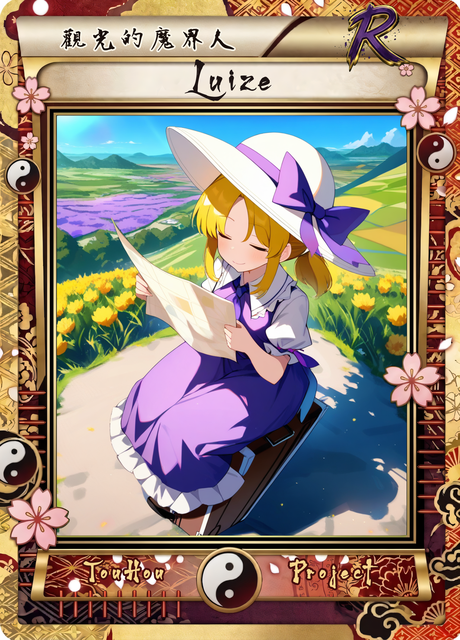
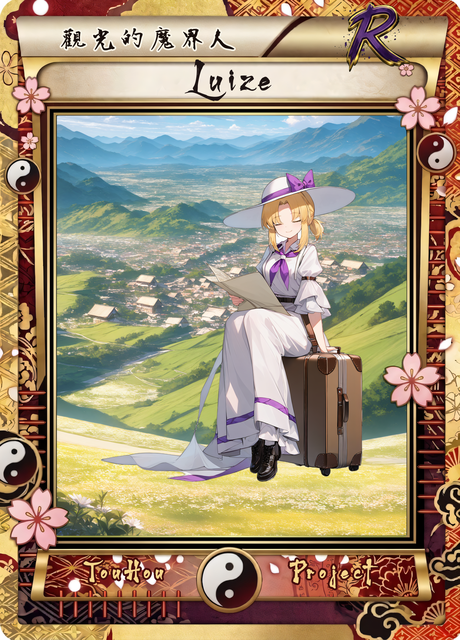
feat: 0.30.015 夢子 R / SR / SSR、露易絲 N / R / SR 重生卡面，PhotoCraft 分層檔工具

diff --git a/tools/card_art/layered/hd_card.py b/tools/card_art/layered/hd_card.py
@@ -757,6 +757,74 @@ LAYERS = {
         "char_scale": 0.8,
         "light": {"dark": 0.35, "eyes": [], "eye_color": (90, 255, 150), "eye": 1.3, "eye_size": 3},   # 綠瞳發光；eyes 座標等人物定案後量
     },
+    # 夢子 R / SR / SSR (TH05 舊卡重生，2026-11-12 桌機)：外觀沿用 make_workflow.BASE (舊作 PC-98：金色波浪長髮、黃眼、女僕頭飾、紅色女僕裝 + 白圍裙)；
+    # 神綺的女僕長，武器是劍 (不是飛刀)；不要畫成咲夜 (EXTRA_NEGATIVE 已排除銀髮藍裙)
+    ("yumeko", "R"): {
+        # 使用者選 (2026-11-12)：B2 (s2202) C1 (s3303)
+        # R「魔界的女長官」：魔界宮殿大廳，提裙行禮、被誇獎時害羞又得意的笑
+        "bg": ("no humans, scenery, grand palace hall in the demon world, pandemonium, red carpet, chandeliers, tall gothic windows, "
+               "purple sky outside, marble pillars, warm lighting, elegant, highly detailed"),
+        "bg_negative": "1girl, person, human, character, face, text, watermark, lowres, worst quality, low quality, blurry, frame, border",
+        "char": ("curtsey, bowing politely, holding skirt, blushing, embarrassed smile, proud, happy, looking at viewer, standing, full body"),
+        "char_negative": "sword, weapon, knife, wings",
+        "char_scale": 0.75,
+    },
+    ("yumeko", "SR"): {
+        # 使用者選 (2026-11-12)：B1 (s1101) C4 (s6606)
+        # SR「飛刀之魔界女僕」：宮殿長廊，指間夾著多把劍、旋身擲出，冷靜幹練
+        "bg": ("no humans, scenery, long palace corridor in the demon world, red and gold, arched ceiling, rows of windows, "
+               "purple sky, flying swords in the distance, light streaks, dramatic perspective, highly detailed"),
+        "bg_negative": "1girl, person, human, character, face, text, watermark, lowres, worst quality, low quality, blurry, frame, border",
+        "char": ("holding multiple swords between fingers, sword in each hand, spinning, about to throw, mid-turn, "
+                 "calm expression, cool, composed, sharp eyes, skirt fluttering, hair flowing, dynamic pose, full body"),
+        "char_negative": "knife, kitchen knife, wings, gun",
+        "char_scale": 0.85,
+    },
+    ("yumeko", "SSR"): {
+        # 使用者選 (2026-11-12)：B1 (s1101) C3 (s5505)，左上劍焰被切 ➔ 補邊 O3 (outpaint s8802 第 1 張) ➔ wf-up s9901；使用者用 PhotoCraft 放大人物 (10c_char_photocraft.png)
+        # SSR「神綺的終極刃舞」：魔界王座廳，擋在空王座前，背後數百把劍排成巨大環狀 (劍陣畫在背景)
+        "bg": ("no humans, scenery, demon world throne room, grand empty throne, hundreds of swords floating in giant rings, "
+               "radial sword formation, glowing blades, red and gold light, light particles, light rays, majestic, epic, highly detailed, intricate details"),
+        "bg_negative": "1girl, person, human, character, face, text, watermark, lowres, worst quality, low quality, blurry, frame, border",
+        "char": ("standing guard, protective stance, one arm outstretched, holding sword, sword pointed forward, "
+                 "determined, fierce eyes, glowing blade, hair flowing, skirt fluttering, wind, powerful, full body"),
+        "char_negative": "knife, kitchen knife, wings, throne, multiple swords",
+        "char_scale": 0.9,
+        "wing_mask": "10m_flame.png",   # 去背會把劍的藍色火焰切掉 ➔ 06 基本圖抓青藍色做遮罩，範圍內保留
+    },
+    # 露易絲 N / R / SR (TH05 舊卡重生，2026-11-12 桌機)：外觀沿用 make_workflow.BASE (金髮短馬尾、瞇瞇眼、白色寬簷遮陽帽 + 紫緞帶、淡紫長裙、紫領巾)；
+    # 魔界的旅行者；不要畫成藍髮版
+    ("luize", "N"): {
+        # 使用者選 (2026-11-12)：B2 (s2202) C1 (s3303)
+        # N「魔界旅行者」：魔界城門前提著行李箱，壓著帽子眨眼，興奮地準備出發
+        "bg": ("no humans, scenery, demon world city gate, makai, strange spiral towers, purple sky, floating rocks, "
+               "stone road leading out of the city, morning light, soft lighting, highly detailed"),
+        "bg_negative": "1girl, person, human, character, face, text, watermark, lowres, worst quality, low quality, blurry, frame, border",
+        "char": ("holding suitcase, carrying luggage, hand on hat, one eye closed, wink, excited, eager smile, walking, from side, full body"),
+        "char_negative": "wings, weapon",
+        "char_scale": 0.75,
+    },
+    ("luize", "R"): {
+        # 使用者選 (2026-11-12)：B1 (s1101) C1 (s3303)
+        # R「觀光的魔界人」：景觀台上坐在行李箱上看地圖，悠哉曬太陽
+        "bg": ("no humans, scenery, scenic overlook, flower field, distant small town, rolling hills, blue sky, white clouds, "
+               "sunny day, peaceful, bright, highly detailed"),
+        "bg_negative": "1girl, person, human, character, face, text, watermark, lowres, worst quality, low quality, blurry, frame, border, night, dark",
+        "char": ("sitting on suitcase, holding map, camera around neck, tourist, relaxed, closed eyes, content smile, basking in sunlight, full body"),
+        "char_negative": "wings, weapon",
+        "char_scale": 0.75,
+    },
+    ("luize", "SR"): {
+        # 使用者選 (2026-11-12)：B1 (s1101) C1 (s3303)
+        # SR「邊境流浪魔導士」：魔界與人間的交界，張手放出旋轉的方形結界彈幕，第一次認真
+        "bg": ("no humans, scenery, border between two worlds, dimensional rift, half purple demon world sky and half blue sky, "
+               "rotating square barriers, converging glowing squares, geometric patterns, purple and white light, light rays, epic, highly detailed"),
+        "bg_negative": "1girl, person, human, character, face, text, watermark, lowres, worst quality, low quality, blurry, frame, border",
+        "char": ("serious expression, eyes open, determined, arms spread, casting magic, glowing hands, "
+                 "hat ribbon fluttering, dress fluttering in wind, dynamic angle, full body"),
+        "char_negative": "wings, weapon, suitcase",
+        "char_scale": 0.85,
+    },
 }
 
 

diff --git a/tools/card_art/layered/pc_layers.py b/tools/card_art/layered/pc_layers.py
@@ -1,0 +1,38 @@
+"""把一張卡拆成全尺寸圖層 PNG，再用 PhotoCraft 疊成 .pcraft：pc_layers.py <分類> <角色> <階級>
+圖層 (下到上)：1 背景 (05_bg)、2 人物 (10_char 放回畫窗位置)、3 卡框與文字 (15_card 去掉畫窗內跟 11_art 一樣的像素，參考用)"""
+import os, subprocess, sys
+import numpy as np
+from PIL import Image
+sys.path.insert(0, os.path.dirname(os.path.abspath(__file__)))
+import hd_card
+
+cat, cid, rar = sys.argv[1:4]
+d = os.path.join(os.path.dirname(os.path.abspath(__file__)), "..", "..", "..", "images", "Original", cat, cid, rar)
+out = os.path.join(os.environ["USERPROFILE"], "Documents", "photocraft_out", f"{cid}_{rar}")
+os.makedirs(out, exist_ok=True)
+l, t, r, b = hd_card.window_box()
+
+bg = Image.open(os.path.join(d, "05_bg.png")).convert("RGBA")
+W, H = bg.size
+bg.save(os.path.join(out, "1_背景.png"))
+
+ch = Image.open(hd_card.char_layer(d)).convert("RGBA")
+canvas = Image.new("RGBA", (W, H), (0, 0, 0, 0))
+canvas.paste(ch, (l, t))
+canvas.save(os.path.join(out, "2_人物.png"))
+
+card = np.asarray(Image.open(os.path.join(d, "15_card.png")).convert("RGB")).astype(np.int16)
+art = np.asarray(Image.open(os.path.join(d, "11_art.png")).convert("RGB")).astype(np.int16)
+alpha = np.where(np.abs(card - art).max(-1) < 6, 0, 255).astype(np.uint8)   # 11_art 是整張卡大小的背景 + 人物
+Image.fromarray(np.dstack([card.astype(np.uint8), alpha]), "RGBA").save(os.path.join(out, "3_卡框與文字.png"))
+
+cli = next(p for p in (r"C:\Program Files\ArtCraft\PhotoCraft\photocraft-cli.exe",   # 桌機
+                       os.path.expandvars(r"%LOCALAPPDATA%\Programs\ArtCraft\PhotoCraft\photocraft-cli.exe"))   # 筆電
+           if os.path.exists(p))
+paths = [os.path.join(out, n) for n in ("1_背景.png", "2_人物.png", "3_卡框與文字.png")]
+import json
+doc = os.path.join(out, f"{cid}_{rar}.pcraft")
+r_ = subprocess.run([cli, "run", "--new", "{}", "--cmd", "file.scripts.loadFilesIntoStack",
+                     "--params", json.dumps({"paths": paths}), "--out", doc], capture_output=True, text=True, encoding="utf-8")
+print(r_.stdout[-1500:], r_.stderr[-1500:])
+print(doc, os.path.exists(doc))

diff --git a/tools/card_art/layered/pc_apply.py b/tools/card_art/layered/pc_apply.py
@@ -1,0 +1,36 @@
+"""把 PhotoCraft 修好的圖層套回步驟資料夾：pc_apply.py <分類> <角色> <階級>
+人物層裁成畫窗大小 ➔ 10c_char_photocraft.png (疊層優先用)；背景層有改才覆蓋 05_bg.png (原檔備份成 05_bg_orig.png)"""
+import glob, os, shutil, sys
+import numpy as np
+from PIL import Image
+sys.path.insert(0, os.path.dirname(os.path.abspath(__file__)))
+import hd_card
+
+cat, cid, rar = sys.argv[1:4]
+d = os.path.join(os.path.dirname(os.path.abspath(__file__)), "..", "..", "..", "images", "Original", cat, cid, rar)
+ed = os.path.join(os.environ["USERPROFILE"], "Documents", "photocraft_out", f"{cid}_{rar}", "edited")
+l, t, r, b = hd_card.window_box()
+
+# 先把 .pcraft 每一層輸出成全尺寸 PNG (trim false 才會保留在原本的位置)
+import json, subprocess
+cli = next(p for p in (r"C:\Program Files\ArtCraft\PhotoCraft\photocraft-cli.exe",   # 桌機
+                       os.path.expandvars(r"%LOCALAPPDATA%\Programs\ArtCraft\PhotoCraft\photocraft-cli.exe"))   # 筆電
+           if os.path.exists(p))
+os.makedirs(ed, exist_ok=True)
+subprocess.run([cli, "run", os.path.join(os.path.dirname(ed), f"{cid}_{rar}.pcraft"), "--cmd", "file.export.layersToFiles",
+                "--params", json.dumps({"dir": ed, "format": "png", "prefix": "ed", "trim": False})], check=True, capture_output=True)
+
+ch = Image.open(glob.glob(os.path.join(ed, "*2_人物*.png"))[0]).convert("RGBA")
+ch.crop((l, t, r, b)).save(os.path.join(d, "10c_char_photocraft.png"))
+print("✅ 10c_char_photocraft.png")
+
+new_bg = Image.open(glob.glob(os.path.join(ed, "*1_背景*.png"))[0]).convert("RGB")
+old_bg = Image.open(os.path.join(d, "05_bg.png")).convert("RGB")
+diff = np.abs(np.asarray(new_bg, np.int16) - np.asarray(old_bg, np.int16)).max()
+if diff > 3:
+    if not os.path.exists(os.path.join(d, "05_bg_orig.png")):
+        shutil.copy(os.path.join(d, "05_bg.png"), os.path.join(d, "05_bg_orig.png"))
+    new_bg.save(os.path.join(d, "05_bg.png"))
+    print("✅ 05_bg.png (背景有修改，原檔留 05_bg_orig.png)")
+else:
+    print("背景沒有改")

diff --git a/Utils/version.py b/Utils/version.py
@@ -6,4 +6,4 @@
 
 每次 commit 都要更新這裡和 CHANGELOG.md。
 """
-VERSION = "0.30.014"
+VERSION = "0.30.015"

diff --git a/docs/card-art.md b/docs/card-art.md
@@ -28,6 +28,8 @@
 - **蕾米莉亞 (2026-11-11)**：人物直接帶蝙蝠翅膀；彈幕風格 `scarlet` (全部紅色系)，UR / LR 背景要偏暗紫黑，紅彈幕才跳得出來。翅膀被切到用 `outpaint_workflow(pads=...)` 往那一邊擴圖，再 `wf-up` 走重繪 → 高清。使用者想自己手修時：把 `10_char.png` 傳給使用者 (透明 PNG)，修完傳回來 (會是 WebP、尺寸與透明度保留) 存成 `10c_char_photocraft.png`，疊層優先用它。
 - **帕秋莉 (2026-11-12，桌機)**：UR 彈幕風格 `elements` (七曜色大玉環 + 七色螺旋 + 七個元素魔法陣)。環繞的水晶 (賢者之石) 各自發光：先自動抓飽和大色塊、排除身體多邊形、每顆用凸包填滿，給使用者看預覽；使用者在預覽上用紅筆圈要補的地方 (同尺寸)，跟原預覽相減就能抓出圈的範圍。依每顆的平均色相分組存成 `10m_crystal_<組>.png`，`light.emissive` 加 `keep_color: True` (從原圖顏色提亮，不然被背光壓暗後會變灰白)。坐姿人物很難跟背景搭，使用者偏好浮空 / 站姿。
 - **紅美鈴 (2026-11-12，桌機)**：N～SR 這類日常場景，使用者偏好人物小一點、融入背景 (R 0.49、SR 0.56)。縮小但腳要留在原位：`make_char` 是置中 + offset，腳底 y = H/2 + h/2 + dy·H，所以 dy_new = dy_old + (h_old − h_new) / 2H (h 用 09 去背圖的裁切高度 × 放進畫窗的倍率 × char_scale 算)。「往右 1/10」= offset dx + 0.1。
+- **使用者想自己動圖層 (2026-11-12)**：`python tools/card_art/layered/pc_layers.py <分類> <角色> <階級>` ➔ `Documents/photocraft_out/<角色>_<階級>/<角色>_<階級>.pcraft` (背景 / 人物 / 卡框與文字三層，卡框只是對照，合成時會重畫)，用 `photocraft.exe` 打開給使用者改；改完 `pc_apply.py <分類> <角色> <階級>` 再 `hd_card.py compose`。桌機 PhotoCraft 裝在 `C:\Program Files\ArtCraft\PhotoCraft\`。
+- **去背切掉發光特效 (2026-11-12 夢子 SSR 劍焰)**：從 06 基本圖抓那個顏色做遮罩 (例如青藍：飽和度高、B/G > R)，存成步驟資料夾的 PNG、LAYERS 寫 `wing_mask`，遮罩範圍內保留原圖；地面陰影常是同色系，要排除。
 - **露米婭 / 小惡魔 (2026-11-12，桌機)**：去背 (BiRefNet) 只留人物，人物身邊的氣焰、黑暗會一起被去掉 ➔ 氛圍要靠背景表現。氣焰被畫面切到時補邊照樣可用 (四邊都補：縮到 680×820、pads (128, 154, 128, 154))。小惡魔沒有官方立繪，頭翼 + 背翼直接寫在 base 提示即可，不用 inline_wings。
 - **咲夜 UR (2026-11-12，桌機接手)**：一個角色可以兩台分著做 (筆電 SR / SSR、桌機 UR)。同樣的種子換 GPU 生出來的圖會略有不同，要跟使用者說。`build_cards.py <角色>` 只會建出本機有原圖的階級，所以各推各的階級，Thumbnails.json 不會互相覆蓋。異色眼 (一紅一藍) 是咲夜常見的問題，挑圖時要檢查。
 - **背景只露出中間**：背景是整張卡大小 (1748×2432)，畫窗只露出 1329×1596，看起來像放大；使用者確認維持這樣。

diff --git a/CHANGELOG.md b/CHANGELOG.md
@@ -13,6 +13,16 @@
 
 ---
 
+## 0.30.015 — 2026-11-12：夢子 R / SR / SSR、露易絲 N / R / SR 重生卡面 (桌機)，PhotoCraft 分層檔工具
+- **⚔ 夢子**：R「魔界的女長官」宮殿大廳提裙行禮 (B2 + C1)；SR「飛刀之魔界女僕」長廊雙手持劍 (B1 + C4)；SSR「神綺的終極刃舞」王座廳劍陣前持藍焰長劍 (B1 + C3)。外觀沿用舊作 PC-98 (金髮紅女僕裝)。
+- **🧳 露易絲**：N「魔界旅行者」城門前提行李箱 (B2 + C1)；R「觀光的魔界人」山谷坐在行李箱上看地圖 (B1 + C1)；SR「邊境流浪魔導士」兩界交界施法 (B1 + C1)。
+- **新工具** `tools/card_art/layered/pc_layers.py` / `pc_apply.py`：把一張卡拆成背景、人物、卡框與文字三層 (全尺寸 PNG) 疊成 PhotoCraft 的 `.pcraft` 給使用者手修；修完 `pc_apply.py` 把人物層裁回畫窗存成 `10c_char_photocraft.png`、背景有改才覆蓋 `05_bg.png` (原檔備份)，再 `compose`。
+- 問題：
+  - 夢子 SSR 劍尖藍焰被畫面切到 ➔ 只往左、上補邊 (縮到 736×888、pads (200, 240, 0, 0))，使用者選 O3。
+  - 去背 (BiRefNet) 把藍焰當背景切掉、只剩劍柄 ➔ 從 06 基本圖抓青藍色 (飽和度高、B/G > R，排除腳下地面陰影) 做 `10m_flame.png`，用既有的 `wing_mask` 機制在遮罩範圍內保留原圖。
+  - 跟筆電同時改 `hd_card.py` 的 LAYERS 尾端，pull 時 autostash 衝突 ➔ 兩邊都保留 (筆電的魅魔在前、桌機的夢子 / 露易絲在後)。
+  - PowerShell 變數不分大小寫：`$o` 跟 `$O` 是同一個變數，腳本裡路徑被蓋掉。
+
 ## 0.30.014 — 2026-11-12：靈夢、魔理沙、琪露諾 SR / SSR 重生 (筆電)，三人卡面全部高清分層
 - **⛩ 博麗靈夢**：SR 神社櫻花樹下倚著樹幹坐 (背景 E1 + 人物 D1)；SSR 黃昏空中施放符札 (B2 + C1)。外貌照萌娘百科補黑髮、髮帶束鬢、白襪瑪麗珍鞋。
 - **🧹 霧雨魔理沙**：SR「普通的魔法使」魔法森林蘑菇屋前眨眼笑 (B1 + C4)；SSR「東洋的西洋魔術師」巨樹與蘑菇間跳起、雙手八卦爐 (B1 + C2)。

diff --git a/TODO.md b/TODO.md
@@ -33,10 +33,10 @@
 | TH04 | 幻月 gengetsu | R / SR / SSR | 全部重生 (有翅膀 ➔ 翅膀分層) |
 | TH04 | 夢月 mugetsu | N / R / SR | 全部重生 |
 | TH05 | 愛麗絲 alice | SR / SSR / UR | 全部重生 (舊作外觀) |
-| TH05 | 露易絲 luize | N / R / SR | 全部重生 |
+| TH05 | 露易絲 luize | N / R / SR | ✅ 0.30.015 (桌機) |
 | TH05 | 神綺 shinki | SSR / UR / LR | LR 已是分層 (同上)；SSR、UR 重生 (UR 構圖要跟 LR 拉開) |
 | TH05 | 雪與舞 yuki_mai | N / R / SR | 全部重生 (雙人：兩人各自生成去背再合成) |
-| TH05 | 夢子 yumeko | R / SR / SSR | 全部重生 |
+| TH05 | 夢子 yumeko | R / SR / SSR | ✅ 0.30.015 (桌機；SSR 劍焰遮罩 + 使用者 PhotoCraft 手修) |
 | TH06 | 琪露諾 cirno | SR / SSR / UR | ✅ 全部完成 (SR、SSR 2026-11-12 重生) |
 | TH06 | 大妖精 daiyousei | N / R / SR | ✅ 0.30.002 完成 (人物直接帶翅膀) |
 | TH06 | 芙蘭朵露 flandre | SSR / UR / LR | ✅ 2026-11-11 (人物直接帶翅膀；LR 稱號改「破壞萬物的禁忌之妹」) |
